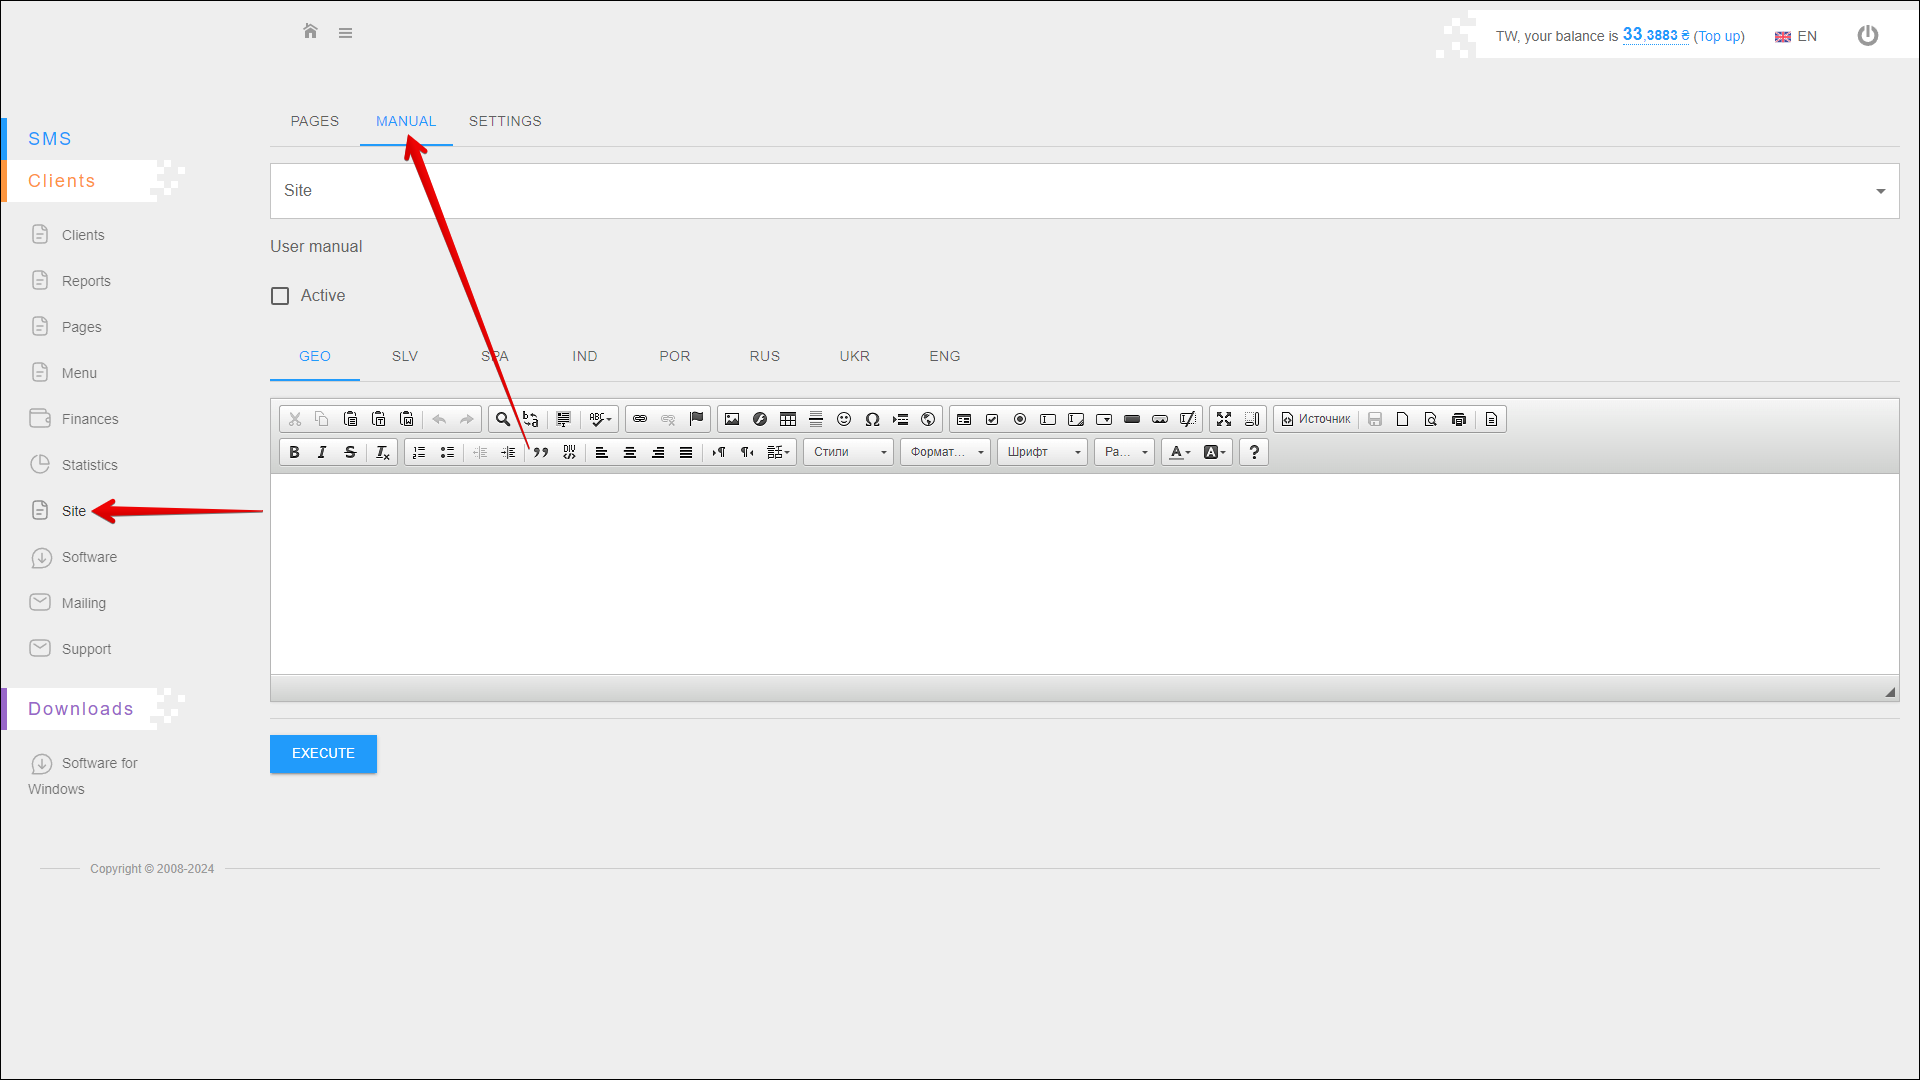
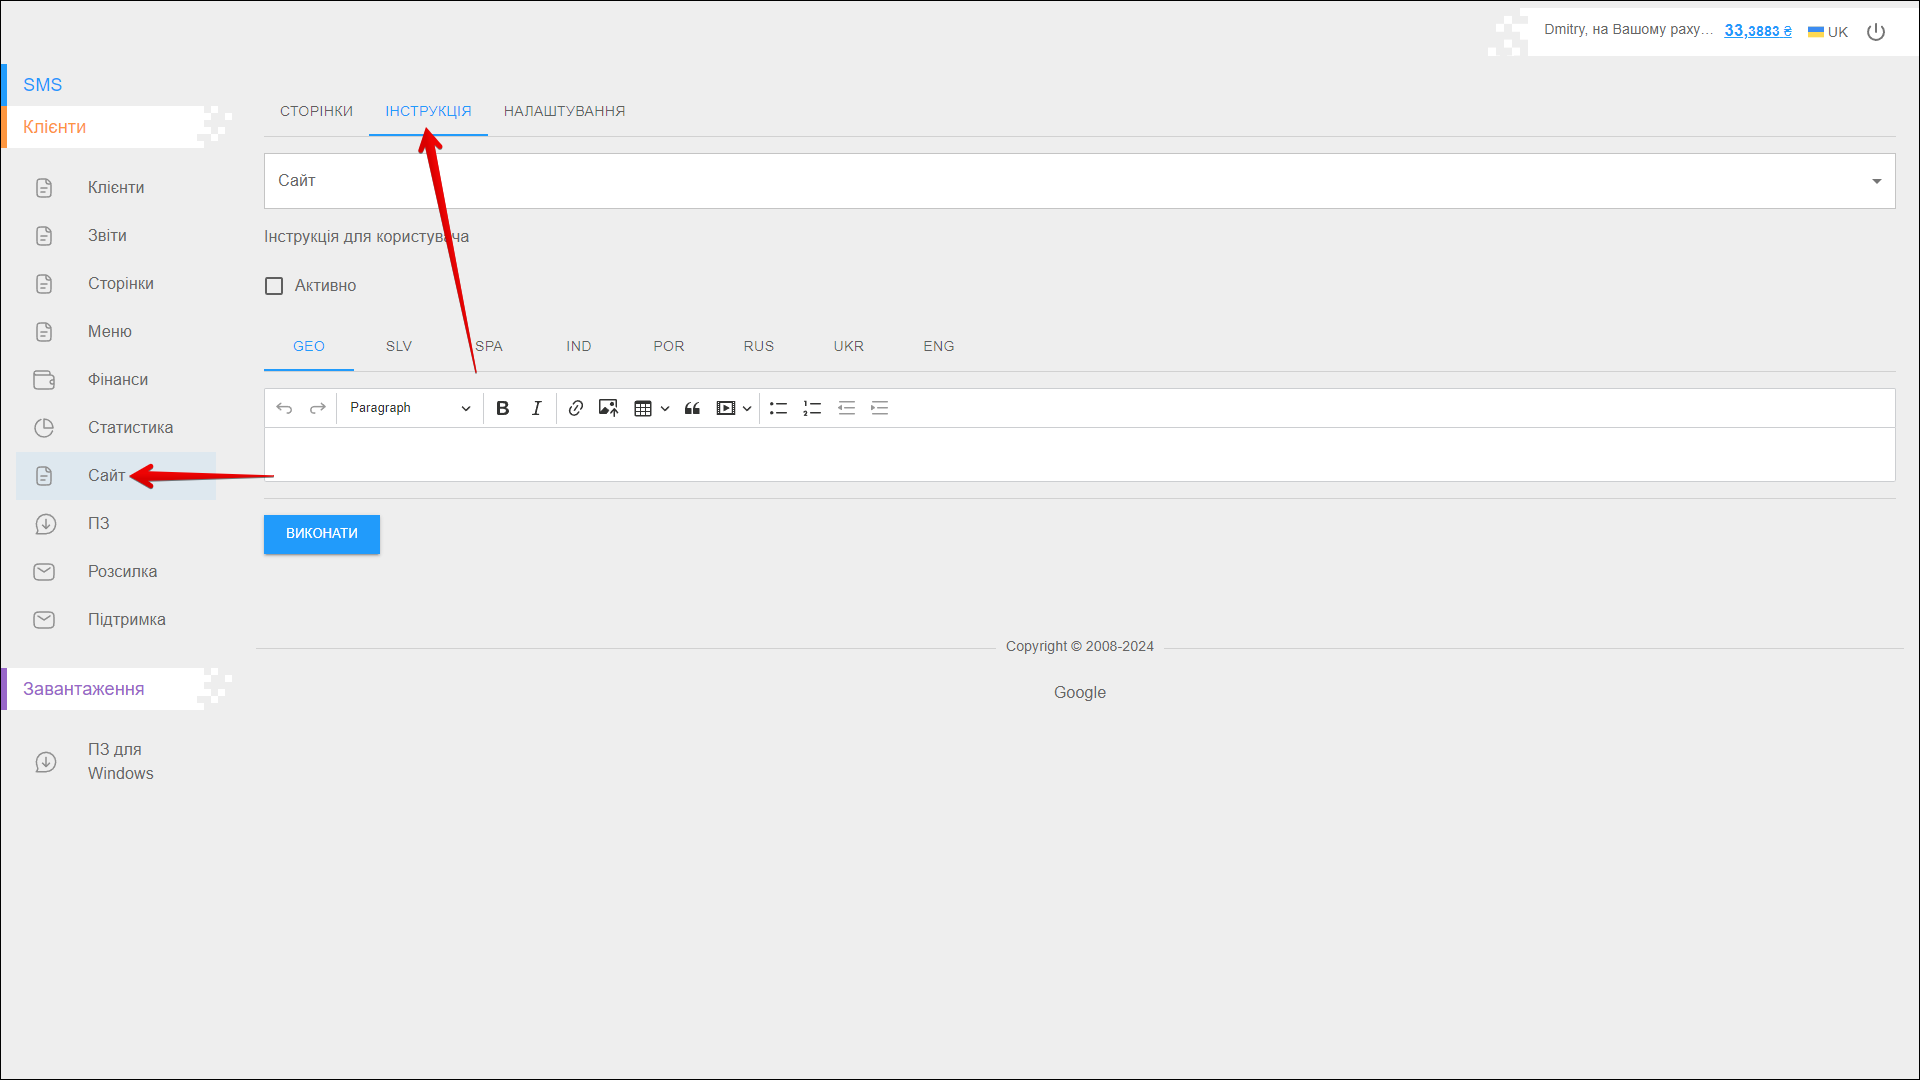
Клієнти-Сайт-Інструкція

diff --git a/i18n/uk/docusaurus-plugin-content-docs/current/instruction/clients/site/manual.md b/i18n/uk/docusaurus-plugin-content-docs/current/instruction/clients/site/manual.md
@@ -3,3 +3,24 @@ id: manual
 title: Інструкція
 slug: /manual
 ---
+
+На цій вкладці ви можете додавати інструкції для користувача (мануали).
+
+Щоб відкрити цю вкладку, виберіть **Клієнти** → **Сайт** у боковому меню та оберіть вкладку **ІНСТРУКЦІЯ**.
+
+![image1](/img/uk/clients_site_manual/image1.png)
+
+## Додавання інструкції
+
+Щоб додати інструкцію, виконайте наведені нижче дії:
+
+|  №  | Дія |
+| :-: | --- |
+| 1 | Виберіть зі списку **Сайт**, для якого ви хочете додати інструкцію |
+| 2 | Відмітьте чекбокс **Активно**, щоб активувати інструкцію |
+| 3 | Оберіть **Мову** інструкції: <li>**GEO** - Грузинська мова</li><li>**SLV** - Словенська мова</li><li>**SPA** - Іспанська мова</li><li>**IND** - Індонезійська мова</li><li>**POR** - Португальська мова</li><li>**RUS** - Російська мова</li><li>**UKR** - Українська мова</li><li>**ENG** - Англійська мова</li> <br/> Ви можете встановити такі параметри для декількох мов |
+| 4 | За допомогою редактора введіть **Текст**, який буде відображатися на сторінці інструкції |
+
+Натисніть **ВИКОНАТИ**, щоб зберегти інструкцію.
+
+![image2](/img/uk/clients_site_manual/image2.png)
